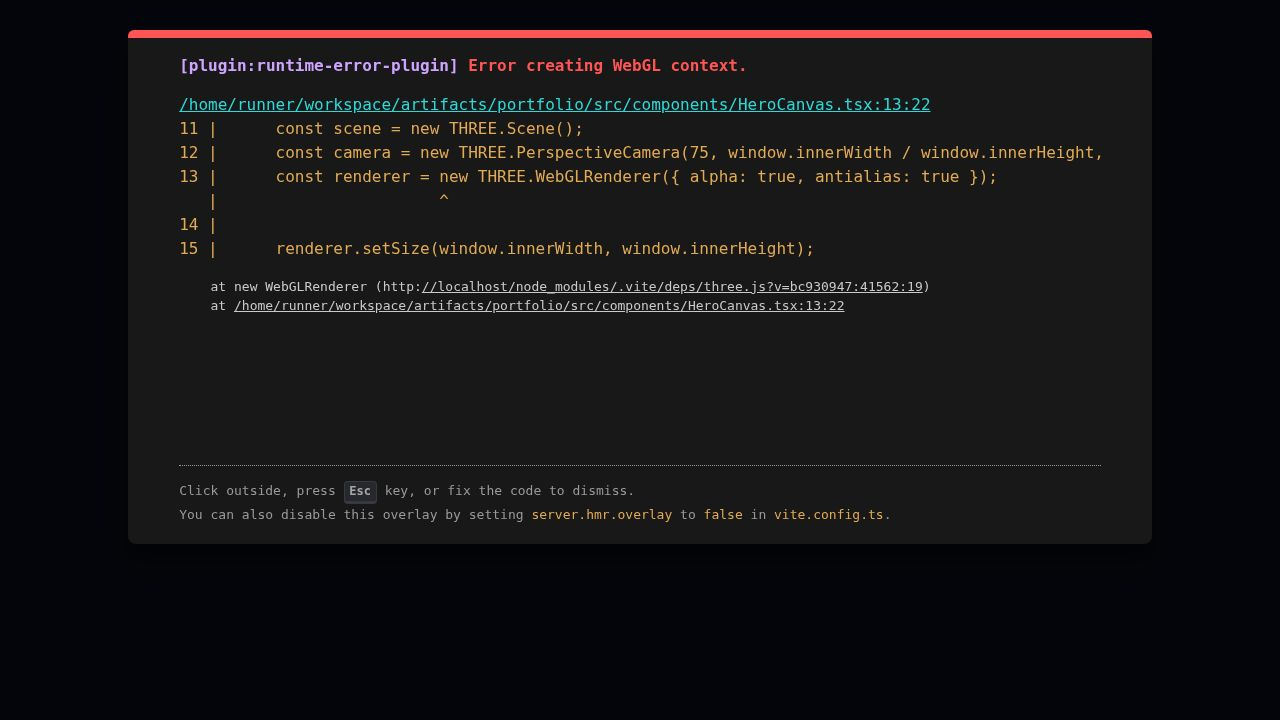
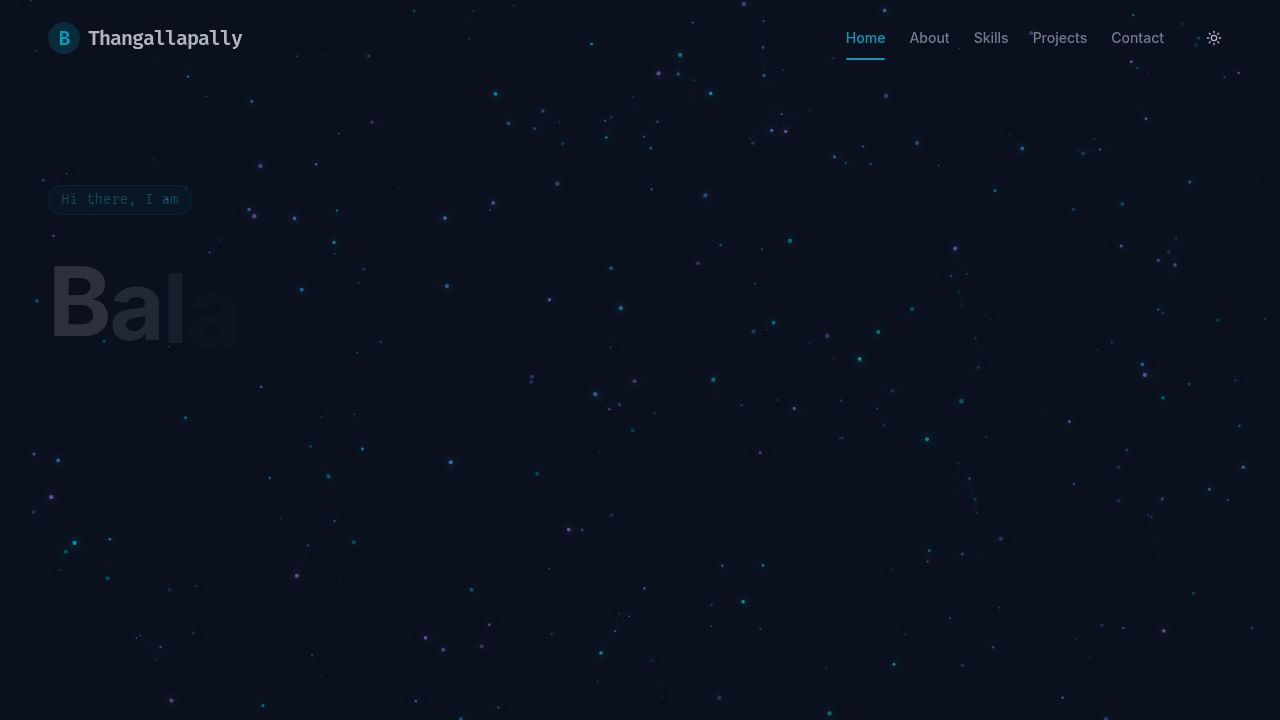
Add immersive scroll-driven backgrounds with parallax and dynamic overlays
Implement a new `ScrollBackground` component featuring three distinct background images that transition smoothly with parallax effects and directional gradient overlays based on section content alignment. Adjust hero canvas particle opacity and remove static background from main content to showcase new backgrounds.

Replit-Commit-Author: Agent
Replit-Commit-Session-Id: 99cf98b7-0d5e-45aa-a632-40f5f6084542
Replit-Commit-Checkpoint-Type: full_checkpoint
Replit-Commit-Event-Id: b9ded0ac-93f7-412b-93f0-179d82c5a25f
Replit-Commit-Screenshot-Url: https://storage.googleapis.com/screenshot-production-us-central1/ddffec3a-3a34-4f85-972f-df705923ec5c/99cf98b7-0d5e-45aa-a632-40f5f6084542/ar4h3P2
Replit-Helium-Checkpoint-Created: true

diff --git a/artifacts/portfolio/src/components/ScrollBackground.tsx b/artifacts/portfolio/src/components/ScrollBackground.tsx
@@ -1,0 +1,136 @@
+import { useState, useEffect, useRef } from "react";
+import { motion, AnimatePresence, useScroll, useTransform } from "framer-motion";
+import bg1 from "@assets/file_000000008d8c71fa9daa5eefdf6aa3e6_1778783725373.png";
+import bg2 from "@assets/file_00000000100071fa8a470af2919e3d29_1778783725218.png";
+import bg3 from "@assets/file_000000002fd8720680bb9b4c69769fb8_1778783725288.png";
+
+/*
+  Background config:
+  - bg1 (LEFT subject, profile view)   → Hero section
+  - bg2 (CENTER subject, glowing eye)  → About + Skills sections
+  - bg3 (RIGHT subject, suited/city)   → Projects + Contact sections
+*/
+const BACKGROUNDS = [
+  {
+    src: bg1,
+    objectPosition: "left center",
+    // Subject is LEFT → text is RIGHT → darken the right side
+    overlay:
+      "linear-gradient(to right, rgba(0,0,0,0.15) 0%, rgba(0,0,0,0.30) 40%, rgba(0,0,0,0.72) 100%)",
+    sections: ["home"],
+  },
+  {
+    src: bg2,
+    objectPosition: "center center",
+    // Subject is CENTER → uniform dark overlay
+    overlay: "rgba(0,0,0,0.52)",
+    sections: ["about", "education", "skills"],
+  },
+  {
+    src: bg3,
+    objectPosition: "right center",
+    // Subject is RIGHT → text is LEFT → darken the left side
+    overlay:
+      "linear-gradient(to left, rgba(0,0,0,0.15) 0%, rgba(0,0,0,0.30) 40%, rgba(0,0,0,0.72) 100%)",
+    sections: ["projects", "contact"],
+  },
+];
+
+export function ScrollBackground() {
+  const [activeIndex, setActiveIndex] = useState(0);
+  const { scrollY } = useScroll();
+  // Parallax: background moves at 40% of scroll speed
+  const bgY = useTransform(scrollY, [0, 3000], ["0%", "40%"]);
+
+  useEffect(() => {
+    const sectionIds = BACKGROUNDS.flatMap((b) => b.sections);
+
+    const observers: IntersectionObserver[] = [];
+
+    // Map each section id → which background index it belongs to
+    const sectionToBg: Record<string, number> = {};
+    BACKGROUNDS.forEach((bg, idx) => {
+      bg.sections.forEach((id) => {
+        sectionToBg[id] = idx;
+      });
+    });
+
+    // Track visibility ratios per section
+    const ratios: Record<string, number> = {};
+    sectionIds.forEach((id) => (ratios[id] = 0));
+
+    const pickActive = () => {
+      // Pick the background group whose sections have the highest combined visibility
+      const scores = [0, 0, 0];
+      for (const [id, ratio] of Object.entries(ratios)) {
+        scores[sectionToBg[id]] += ratio;
+      }
+      const best = scores.indexOf(Math.max(...scores));
+      setActiveIndex(best);
+    };
+
+    sectionIds.forEach((id) => {
+      const el = document.getElementById(id);
+      if (!el) return;
+
+      const obs = new IntersectionObserver(
+        ([entry]) => {
+          ratios[id] = entry.intersectionRatio;
+          pickActive();
+        },
+        { threshold: Array.from({ length: 21 }, (_, i) => i / 20) }
+      );
+      obs.observe(el);
+      observers.push(obs);
+    });
+
+    return () => observers.forEach((o) => o.disconnect());
+  }, []);
+
+  return (
+    <div className="fixed inset-0 z-0 overflow-hidden pointer-events-none">
+      {BACKGROUNDS.map((bg, idx) => (
+        <motion.div
+          key={idx}
+          className="absolute inset-0"
+          initial={false}
+          animate={{
+            opacity: idx === activeIndex ? 1 : 0,
+            scale: idx === activeIndex ? 1 : 1.04,
+          }}
+          transition={{
+            opacity: { duration: 0.85, ease: [0.4, 0, 0.2, 1] },
+            scale: { duration: 0.85, ease: [0.4, 0, 0.2, 1] },
+          }}
+        >
+          {/* Parallax image wrapper */}
+          <motion.div
+            className="absolute inset-[-8%]"
+            style={{ y: bgY }}
+          >
+            <img
+              src={bg.src}
+              alt=""
+              aria-hidden="true"
+              className="w-full h-full object-cover"
+              style={{ objectPosition: bg.objectPosition }}
+              draggable={false}
+            />
+          </motion.div>
+
+          {/* Base dark veil */}
+          <div className="absolute inset-0 bg-black/30" />
+
+          {/* Directional gradient overlay */}
+          <div
+            className="absolute inset-0"
+            style={{ background: bg.overlay }}
+          />
+
+          {/* Bottom fade so section transitions feel grounded */}
+          <div className="absolute inset-x-0 bottom-0 h-32 bg-gradient-to-t from-black/40 to-transparent" />
+        </motion.div>
+      ))}
+    </div>
+  );
+}

diff --git a/artifacts/portfolio/src/pages/Home.tsx b/artifacts/portfolio/src/pages/Home.tsx
@@ -1,5 +1,6 @@
 import { useEffect, useState } from "react";
 import { LoadingScreen } from "@/components/LoadingScreen";
+import { ScrollBackground } from "@/components/ScrollBackground";
 import { CustomCursor } from "@/components/CustomCursor";
 import { Navbar } from "@/components/Navbar";
 import { Hero } from "@/components/Hero";
@@ -26,16 +27,17 @@ export default function Home() {
 
   return (
     <>
+      <ScrollBackground />
       <LoadingScreen isLoading={isLoading} />
       <CustomCursor />
-      
+
       <AnimatePresence>
         {!isLoading && (
-          <motion.main 
+          <motion.main
             initial={{ opacity: 0 }}
             animate={{ opacity: 1 }}
             transition={{ duration: 0.8, ease: "easeOut" }}
-            className="min-h-screen bg-background relative selection:bg-primary/30 font-sans"
+            className="min-h-screen relative selection:bg-primary/30 font-sans"
           >
             <Navbar />
             <Hero />

diff --git a/artifacts/portfolio/src/components/HeroCanvas.tsx b/artifacts/portfolio/src/components/HeroCanvas.tsx
@@ -40,8 +40,8 @@ export function HeroCanvas() {
         y: Math.random() * height,
         vx: (Math.random() - 0.5) * 0.4,
         vy: (Math.random() - 0.5) * 0.4,
-        radius: Math.random() * 1.8 + 0.4,
-        alpha: Math.random() * 0.6 + 0.2,
+        radius: Math.random() * 1.4 + 0.3,
+        alpha: Math.random() * 0.35 + 0.1,
         color: colors[Math.floor(Math.random() * colors.length)],
       }));
     };